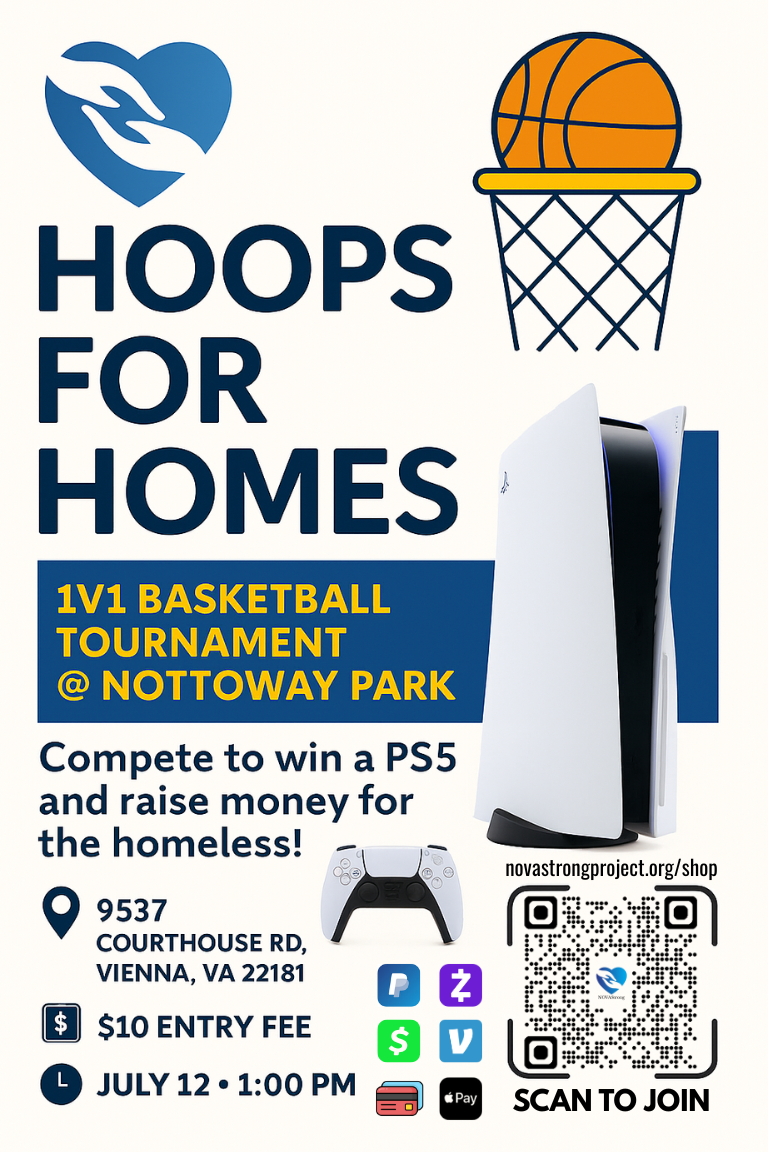
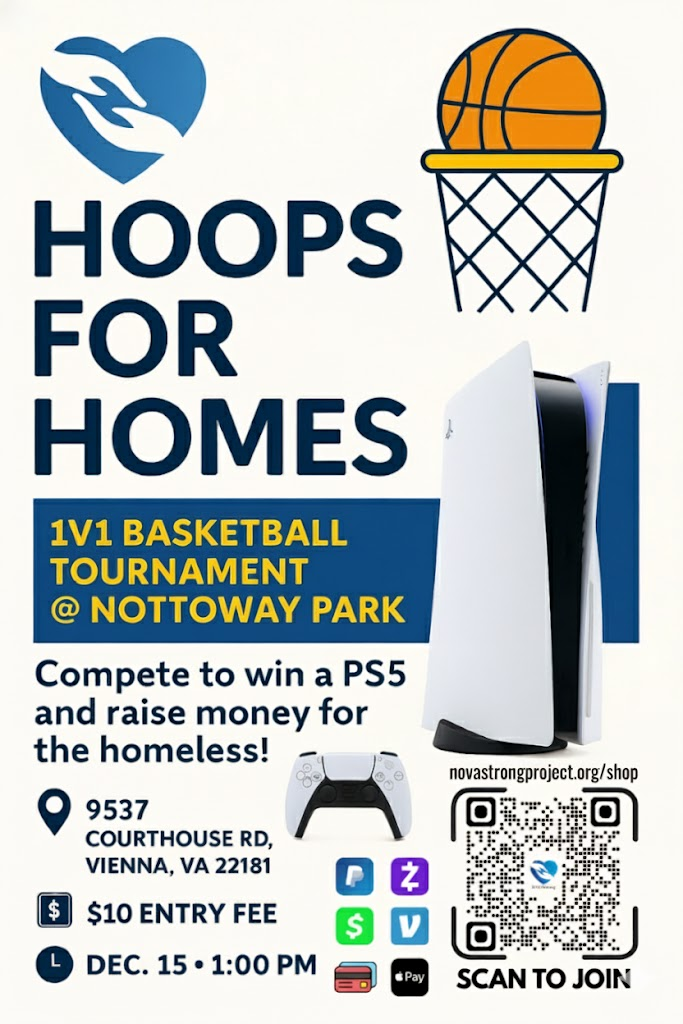
yupdafa

diff --git a/about-us.html b/about-us.html
@@ -112,7 +112,7 @@
 
     <img src="assets/img/articles/srikanth.png" class="img-fluid mb-4" alt="..." style="width: 300px; border-radius: 8px;">
     <h5>Srikanth Bala</h5>
-    <div class="text-muted mb-2">Executive Director</div>
+    <div class="text-muted mb-2">Co-President</div>
     <p>Srikanth is a senior at Madison High School. He is the founder of NOVAStrong and a student leader with a passion for using STEM to create real-world impact. He helps lead community projects focused on equity, service, and innovation. Srikanth was inspired to start NOVAStrong after seeing how access to education and technology can vary between neighborhoods, and the effect it has on the community. Outside of school, he enjoys building electronics, working on design projects, and playing basketball with friends.</p>
 <p class="text-muted small mt-2">
   Phone: <a href="tel:5713730007" style="color: #007BA7; text-decoration: none;">(571) 373-0007</a><br>
@@ -126,7 +126,7 @@
 
     <img src="assets/img/articles/adam.png" class="img-fluid mb-4" alt="Adam Najmeddine" style="width: 300px; border-radius: 8px;">
     <h5>Adam Najmeddine</h5>
-    <div class="text-muted mb-2">Executive Director</div>
+    <div class="text-muted mb-2">Co-President</div>
     <p>Adam is a senior at Madison High School. He is a co-founder of NOVAStrong and is passionate about biomedical science and community service. He helps lead the team’s educational and outreach programs, with a focus on youth empowerment and public health. Adam was inspired to start NOVAStrong after volunteering at a local clinic, where he saw how access to healthcare and education could change lives. Outside of school, Adam enjoys playing soccer, working on science research, and spending time with friends.</p>
 <p class="text-muted small mt-2">
   Phone: <a href="tel:5712242390" style="color: #007BA7; text-decoration: none;">(571) 224-2390</a><br>
@@ -138,7 +138,7 @@
   <div class="col-md-4 mb-4 text-center">
     <img src="assets/img/articles/zakaria.png" class="img-fluid mb-4" alt="Zakaria Najmeddine" style="width: 300px; border-radius: 8px;">
     <h5>Zakaria Najmeddine</h5>
-    <div class="text-muted mb-2">Executive Director</div>
+    <div class="text-muted mb-2">Co-President</div>
     <p>Zakaria is a senior at Madison High School. He is a co-founder of NOVAStrong and is passionate about using data science and biomedical research to drive real-world impact. He helps lead STEM-based outreach and public health projects aimed at making education and innovation more accessible. Zakaria was inspired to start NOVAStrong after a college research internship, where he worked on analyzing health data to improve local clinic operations. Outside of school, Zakaria enjoys coding, biking with friends, and playing pickleball.</p>
 <p class="text-muted small mt-2">
   Phone: <a href="tel:5712242445" style="color: #007BA7; text-decoration: none;">(571) 224-2445</a><br>
@@ -150,24 +150,24 @@
 <div class="row justify-content-center text-center mb-4 gx-5">
   <!-- David (new, placed first) -->
   <div class="col-md-4 mb-4 custom-divider-end">
-    <img src="assets/img/articles/david.jpeg" class="img-fluid mb-4" alt="David Nam" style="width: 300px; height: 300px; object-fit: cover; border-radius: 8px;">
+    <img src="assets/img/articles/david.jpg" class="img-fluid mb-4" alt="David Nam" style="width: 300px; height: 300px; object-fit: cover; border-radius: 8px;">
     <h5>David Nam</h5>
-    <div class="text-muted mb-2">Vice Executive Director</div>
-    <p>As Vice Executive Director, David supports NOVAStrong’s operations and partnerships, helping align programs and outreach with the organization’s mission.</p>
+    <div class="text-muted mb-2">Vice President</div>
+    <p>David is a senior at Madison High School. He is NOVAStrong's Vice President and helps coordinate programs and partnerships. He helps organize supply drives and volunteer shifts, manages project timelines, and supports outreach with schools and local nonprofits. David also helps run device drop-off events and community workshops, making sure families leave with working laptops and simple how-to guides. Outside of school, he enjoys playing soccer and watching weekend matches with friends.</p>
     <p class="text-muted small mt-2">
-      Phone: <a href="tel:5713730007" style="color: #007BA7; text-decoration: none;">(571) 373-0007</a><br>
+      Phone: <a href="tel:5715197473" style="color: #007BA7; text-decoration: none;">(571) 519-7473</a><br>
       Email: <a href="mailto:info@novastrongproject.org" style="color: #007BA7; text-decoration: none;">info@novastrongproject.org</a>
     </p>
   </div>
 
   <!-- Rayan -->
   <div class="col-md-4 mb-4 custom-divider-end">
-    <img src="assets/img/articles/rayan.png" class="img-fluid mb-4" alt="Rayan Rashid" style="width: 300px; border-radius: 8px;">
+    <img src="assets/img/articles/ryo.jpg" class="img-fluid mb-4" alt="Rayan Rashid" style="width: 300px; border-radius: 8px;">
     <h5>Rayan Rashid</h5>
-    <div class="text-muted mb-2">Director of Technology</div>
-    <p>As Director of Technology, Rayan helps build and maintain the tools that power NOVAStrong’s programs. He focuses on improving the website, data systems, and internal workflows so volunteers and families can connect more easily and securely.</p>
+    <div class="text-muted mb-2">Technology Lead</div>
+    <p>Rayan is a senior at James Madison High School. He is NOVAStrong's Technology Lead and helps with our electronic refurbishment drives and the development and hosting of our website and shop. He helps restore donated devices, sets them up for use, and handles troubleshooting for the team. Rayan has a strong interest in computer science and has coded many iOS apps over the years. Outside of school, he enjoys playing soccer and working on small tech projects.</p>
     <p class="text-muted small mt-2">
-      Phone: <a href="tel:5713730007" style="color: #007BA7; text-decoration: none;">(571) 373-0007</a><br>
+      Phone: <a href="tel:7037178496" style="color: #007BA7; text-decoration: none;">(703) 717-8496</a><br>
       Email: <a href="mailto:info@novastrongproject.org" style="color: #007BA7; text-decoration: none;">info@novastrongproject.org</a>
     </p>
   </div>
@@ -176,10 +176,10 @@
   <div class="col-md-4 mb-4 text-center">
     <img src="assets/img/articles/shaan2.jpeg" class="img-fluid mb-4" alt="Shaan Grover" style="width: 300px; border-radius: 8px;">
     <h5>Shaan Grover</h5>
-    <div class="text-muted mb-2">Director of Marketing</div>
-    <p>As Director of Marketing, Shaan leads outreach and storytelling to grow NOVAStrong’s impact. He supports branding, social media, and community engagement efforts that help raise awareness and support for programs across Northern Virginia.</p>
+    <div class="text-muted mb-2">Health Insights Lead</div>
+    <p>Shaan is a senior at Madison High School. He is NOVAStrong's Health Insights Lead and is interested in medicine and public health. He helps with the team's data driven health projects and outreach, including overdose education and NARCAN access. Shaan was inspired to serve his community after seeing how clear information outreach can protect a community and save many lives. Outside of school, Shaan enjoys playing baseball, reading non-fiction, and hanging out with friends.</p>
     <p class="text-muted small mt-2">
-      Phone: <a href="tel:5713730007" style="color: #007BA7; text-decoration: none;">(571) 373-0007</a><br>
+      Phone: <a href="tel:5712514856" style="color: #007BA7; text-decoration: none;">(571) 251-4856</a><br>
       Email: <a href="mailto:info@novastrongproject.org" style="color: #007BA7; text-decoration: none;">info@novastrongproject.org</a>
     </p>
   </div>
@@ -191,10 +191,10 @@
   <div class="col-md-4 mb-4 text-center">
     <img src="assets/img/articles/charlie.JPEG" class="img-fluid mb-4" alt="Charlie Bergeron" style="width: 300px; height: 300px; object-fit: cover; object-position: 50% 35%; border-radius: 8px;">
     <h5>Charlie Bergeron</h5>
-    <div class="text-muted mb-2">Director of Growth</div>
-    <p>As Director of Growth, Charlie helps expand NOVAStrong’s partnerships and outreach so we can serve more families and neighborhoods across NOVA.</p>
+    <div class="text-muted mb-2">Marketing Lead</div>
+    <p>Charlie is a senior at Madison High School. He is NOVAStrong's Marketing Lead and plans to study premed. He helps grow the team's partnerships and outreach, managing social media, school events, and local business collaborations. Charlie was inspired to help out after volunteering at a student health fair for underprivileged families. Outside of school, Charlie enjoys playing tennis, basketball, and streaming.</p>
     <p class="text-muted small mt-2">
-      Phone: <a href="tel:5713730007" style="color: #007BA7; text-decoration: none;">(571) 373-0007</a><br>
+      Phone: <a href="tel:7032289066" style="color: #007BA7; text-decoration: none;">(703) 228-9066</a><br>
       Email: <a href="mailto:info@novastrongproject.org" style="color: #007BA7; text-decoration: none;">info@novastrongproject.org</a>
     </p>
   </div>

diff --git a/index.html b/index.html
@@ -44,13 +44,83 @@
     }
 
     .navbar-custom.scrolled .nav-link,
-    .navbar-custom.scrolled .navbar-brand,
+    .navbar-custom.scrolled .navbar-brand {
+      color: black !important;
+    }
+
     .navbar-custom.scrolled .btn {
       color: black !important;
     }
 
+    .navbar-custom.scrolled .btn[href="donate.html"] {
+      color: white !important;
+    }
+
     .navbar-custom .btn {
       transition: color 0.3s, border-color 0.3s;
+    }
+
+    /* Increase Who We Are text size */
+    .who-we-are-left p {
+      font-size: clamp(1.08rem, 1.4vw, 1.35rem);
+    }
+    
+    /* Match heights of Who We Are and Newsletter/Disaster Relief columns on desktop */
+    @media (min-width: 992px) {
+      .who-we-are-section .row {
+        display: flex;
+        align-items: stretch;
+      }
+      
+      .who-we-are-section .col-lg-6 {
+        display: flex;
+        flex-direction: column;
+        height: 100%;
+      }
+      
+      .who-we-are-left {
+        display: flex;
+        flex-direction: column;
+        height: 100%;
+      }
+      
+      .who-we-are-left > h2 {
+        flex-shrink: 0;
+      }
+      
+      .who-we-are-left p {
+        flex: 0 1 auto;
+        font-size: clamp(1.08rem, 1.4vw, 1.35rem);
+        margin-bottom: 1rem;
+      }
+      
+      .who-we-are-left img {
+        margin-top: auto;
+        width: 100%;
+        flex-shrink: 0;
+      }
+      
+      .who-we-are-right {
+        display: flex;
+        flex-direction: column;
+        height: 100%;
+      }
+      
+      /* Prevent newsletter box from expanding too much */
+      .who-we-are-right #newsletterBox {
+        flex: 0 1 auto;
+      }
+      
+      /* Orange box (disaster relief) - separate from newsletter */
+      .who-we-are-right #orangeBox {
+        flex-shrink: 0;
+      }
+      
+      /* Ensure orange box and image bottom align by matching heights */
+      .who-we-are-left,
+      .who-we-are-right {
+        min-height: 100%;
+      }
     }
   </style>
 </head>
@@ -91,18 +161,18 @@
 
   <!-- Hero Text -->
   <div class="position-relative d-flex flex-column justify-content-center align-items-center h-100 text-center text-white px-4 animate__animated animate__fadeInUp animate__slow hero-text" style="z-index: 2;">
-    <h1 class="display-3 fw-bold mb-3 bebas-header">Living in Northern Virginia can be taxing on your wallet...</h1>
-    <p class="lead">We’re here to make sure that won’t be a problem.</p>
+    <h1 class="display-3 fw-bold mb-3 bebas-header">Northern Virginia faces real needs, every day.</h1>
+    <p class="lead">We're here to make sure that won't be a problem.</p>
   </div>
 </header>
 
 <!-- Newsletter & Who We Are -->
 <!-- Newsletter & Who We Are -->
-<section class="py-5 bg-white">
+<section class="py-5 bg-white who-we-are-section">
   <div class="container">
     <div class="row g-5 align-items-stretch">
       <!-- Who We Are Left Column -->
-      <div class="col-lg-6 d-flex flex-column justify-content-center align-items-center text-center h-100">
+      <div class="col-lg-6 who-we-are-left d-flex flex-column justify-content-center align-items-center text-center h-100">
         <h2 class="mb-0">Who We Are</h2>
         <p class="lead mt-3">
           NOVAStrong is a student-led non-profit based in Vienna, VA. Our mission is simple:
@@ -114,12 +184,12 @@
 
       <!-- Newsletter Right Column -->
       <!-- Newsletter Right Column -->
-<div class="col-lg-6">
+<div class="col-lg-6 who-we-are-right">
   <div class="p-4 rounded shadow bg-light w-100 animate__animated d-flex flex-column justify-content-center" id="newsletterBox" style="opacity: 0;">
     <h2 class="text-center mb-3">Join Our 
       <a href="blog.html" style="color: #007BA7; text-decoration: none;">Newsletter</a>
     </h2>
-    <p class="text-center mb-4">Stay up to date on community projects, volunteer events, and student-led initiatives.</p>
+    <p class="text-center mb-4 small" style="font-size: 0.85rem;">Stay up to date on community projects, volunteer events, and student-led initiatives.</p>
     <form id="newsletterForm" class="row g-3 flex-grow-1 d-flex flex-column justify-content-center">
       <div class="col-12">
         <input type="text" class="form-control" placeholder="Full Name" name="name" required />
@@ -141,18 +211,18 @@
       <div class="d-flex flex-column flex-md-row align-items-center justify-content-between h-100 text-center text-md-start px-4 px-md-5 py-4 py-md-5">
         <!-- Disaster Relief Spotlight -->
         <div class="d-flex flex-column justify-content-center align-items-center align-items-md-start text-white text-center text-md-start" style="flex: 1; max-width: 520px; margin: 0 auto;">
-          <h4 class="fw-bold mb-3" style="color: white; font-size: 1.8rem;">
-            🌍 Disaster Relief Spotlight
+          <h4 class="fw-bold mb-3" style="color: white; font-size: 1.4rem;">
+            Disaster Relief Spotlight 🌍
           </h4>
           <p class="mb-3 text-white" style="max-width: 420px;">
-            Learn how NOVAStrong rallied for families after the Morocco earthquake, raising <strong>$3,000+</strong> overall with more than <strong>$1,500</strong> from a single GoFundMe. Your support helped deliver long-term care as part of our <strong>$20,000+</strong> in community relief.
+            After the Morocco earthquake, NOVAStrong raised over $3,000, contributing to more than $20,000 in worldwide relief.
           </p>
           <a href="disaster-relief.html" class="btn fw-bold px-4 mt-2 mx-auto mx-md-0" style="background-color: #007BA7; color: white;">Explore the Relief Hub</a>
         </div>
 
         <!-- Key Impact Stats -->
-        <div class="d-flex flex-column justify-content-center text-white text-start mt-4 mt-md-0 ms-md-4" style="flex-shrink: 0; max-width: 260px;">
-          <div class="bg-white text-dark rounded-4 p-3 shadow-sm">
+        <div class="d-flex flex-column justify-content-center text-white text-center mt-4 mt-md-0 ms-md-4" style="flex-shrink: 0; max-width: 260px;">
+          <div class="bg-white text-dark rounded-4 p-3 shadow-sm text-center">
             <p class="fw-bold mb-2 text-uppercase small text-secondary">Impact at a Glance</p>
             <ul class="list-unstyled mb-0">
               <li class="mb-2"><strong>$3,000+</strong> raised for Morocco families</li>
@@ -338,6 +408,51 @@
   });
 
   observer.observe(newsletter);
+</script>
+
+<script>
+  // Match heights of Who We Are and Newsletter/Disaster Relief columns on desktop
+  function matchColumnHeights() {
+    if (window.innerWidth >= 992) {
+      const leftColumn = document.querySelector('.who-we-are-left');
+      const rightColumn = document.querySelector('.who-we-are-right');
+      
+      if (leftColumn && rightColumn) {
+        // Reset heights first
+        leftColumn.style.height = 'auto';
+        rightColumn.style.height = 'auto';
+        
+        // Get the actual heights
+        const leftHeight = leftColumn.offsetHeight;
+        const rightHeight = rightColumn.offsetHeight;
+        
+        // Set both to the maximum height
+        const maxHeight = Math.max(leftHeight, rightHeight);
+        leftColumn.style.height = maxHeight + 'px';
+        rightColumn.style.height = maxHeight + 'px';
+      }
+    } else {
+      // Reset heights on mobile
+      const leftColumn = document.querySelector('.who-we-are-left');
+      const rightColumn = document.querySelector('.who-we-are-right');
+      if (leftColumn) leftColumn.style.height = 'auto';
+      if (rightColumn) rightColumn.style.height = 'auto';
+    }
+  }
+  
+  // Run on load and resize
+  window.addEventListener('load', matchColumnHeights);
+  window.addEventListener('resize', matchColumnHeights);
+  
+  // Also run after images load to account for image dimensions
+  window.addEventListener('load', () => {
+    const img = document.querySelector('.who-we-are-left img');
+    if (img) {
+      img.addEventListener('load', matchColumnHeights);
+      // If already loaded, trigger immediately
+      if (img.complete) matchColumnHeights();
+    }
+  });
 </script>
 <script src="https://cdn.jsdelivr.net/npm/bootstrap@5.3.3/dist/js/bootstrap.bundle.min.js" integrity="sha384-..." crossorigin="anonymous"></script>
 </body>

diff --git a/projects.html b/projects.html
@@ -101,18 +101,18 @@
         <!-- NARCAN Accessibility Campaign -->
         <div class="row align-items-center mb-5">
             <div class="col-lg-6 text-center mb-4 mb-lg-0">
-                <img src="assets/img/articles/narcan.png" class="img-fluid rounded shadow-sm" style="max-height: 500px;" alt="NARCAN Campaign Image">
+                <img src="assets/img/articles/babur.jpg" class="img-fluid rounded shadow-sm" style="max-height: 500px;" alt="NARCAN Campaign Image">
             </div>
             <div class="col-lg-6">
                 <div class="card p-4 border-0 shadow-sm">
                     <h4 class="section-header"><span class="underline">NARCAN Accessibility Campaign</span></h4>
 
                     <p style="font-size: 17px;">
-                        With opioid overdoses continuing to endanger lives in our community, NOVAStrong is launching a bold and urgent initiative: the <strong>NARCAN Accessibility Campaign</strong>. This project builds on the existing REVIVE! program, which has already trained students throughout Prince William County Public Schools in administering naloxone (NARCAN), a life-saving medication used to reverse opioid overdoses.
+                        With opioid overdoses continuing to endanger lives in our community, NOVAStrong launched the NARCAN Accessibility Campaign after a pivotal kickoff with Dr. Babur Lateef at Viva! Vienna! That moment moved our work from idea to action. It set a clear goal, expand access to naloxone and make overdose response a normal part of community safety.
                         <br><br>
-                        We are proud to work alongside influential public figures like <strong>Dr. Babur Lateef</strong>, Chairman At-Large of PWCS, to expand both awareness and access to NARCAN in local schools, libraries, and community centers. Our campaign has already placed naloxone boxes in high-traffic public locations like libraries and recreation centers and continues installing additional units across schools so students, staff, and community leaders are fully trained and confident in responding to emergencies.
+                        We partnered with the Optimist Club of Greater Vienna and secured dedicated funding in their October budget to scale placements and training. <strong>Using that support, we placed NARCAN boxes across Vienna's public and commercial spaces, including libraries, recreation sites, shops, and other high-traffic locations.</strong> We continue adding units in schools and workplaces so students, staff, and local businesses are ready to act.
                         <br><br>
-                        In addition to distributing physical kits, NOVAStrong will host educational workshops, training refreshers, and social media campaigns targeting stigma reduction and opioid awareness. We believe everyone deserves the knowledge and tools to save a life because preparedness shouldn’t be optional.
+                        <strong>Alongside distribution, NOVAStrong runs workshops, quick training refreshers, and social campaigns to reduce stigma and raise awareness.</strong> We focus on simple steps, where to find NARCAN and how to use it in under two minutes. Everyone deserves the knowledge and tools to save a life, and preparedness should be standard for our town.
                     </p>
                 </div>
             </div>
@@ -132,9 +132,9 @@
                     <p style="font-size: 17px;">
                         NOVAStrong is launching a long-term tech equity initiative: the <strong>Electronic Refurbishment Drive</strong>. Our goal is to collect used but functional laptops, tablets, phones, and accessories from local families and businesses, refurbish them with care, and redistribute them to underserved students across Northern Virginia.
                         <br><br>
-                        With rising educational demands and an increasingly digital world, access to reliable devices is no longer a luxury; it’s a necessity. Working with experienced volunteers, tech-savvy students, and community partners, we will ensure every device is cleaned, updated, and securely wiped before being donated to a verified recipient.
+                        With rising educational demands and an increasingly digital world, access to reliable devices is no longer a luxury; it's a necessity. Working with experienced volunteers, tech-savvy students, and community partners, we ensure every device is cleaned, updated, and securely wiped before being donated to a verified recipient. This project embodies our values of sustainability, digital inclusion, and community empowerment.
                         <br><br>
-                        We’ll also offer beginner tech literacy sessions for first-time users, particularly senior citizens and young students. This project embodies our values of sustainability, digital inclusion, and community empowerment. By giving old devices new life, we’re building a future that’s more connected and more just.
+                        <strong>Our next drive will be held December 12th from 9 AM to 5 PM at the Vienna Community Center.</strong> <strong>The devices will be held for refurbishment and be shipped out mid-January to struggling communities in Falls Church.</strong>
                     </p>
                 </div>
             </div>

diff --git a/awards.html b/awards.html
@@ -51,8 +51,8 @@
         </div>
         <div class="col-lg-6">
           <div class="card p-4 border-0 shadow-sm">
-            <h4 class="mb-3"><span class="underline">Pollination Project Grant</span></h4>
-            <p style="font-size:17px;">This grant supports youth-led initiatives that create practical change in local communities. Funding from the Pollination Project helps NOVAStrong accelerate early-stage ideas into real, on-the-ground impact across Northern Virginia.</p>
+            <h4 class="mb-3"><span class="underline">Pollination Project Grant Awardee</span></h4>
+            <p style="font-size:17px;">This grant supports youth-led initiatives that create practical change in local communities. Funding from the Pollination Project helps NOVAStrong accelerate early-stage ideas into real, on-the-ground impact across Northern Virginia. <strong>Their funding specifically enabled us to purchase NARCAN for facilities without easy access to this life-saving drug</strong>, ensuring critical spaces in our community are equipped to respond to opioid overdoses.</p>
           </div>
         </div>
       </div>
@@ -66,8 +66,8 @@
         </div>
         <div class="col-lg-6">
           <div class="card p-4 border-0 shadow-sm">
-            <h4 class="mb-3"><span class="underline">Home Depot Foundation Grant</span></h4>
-            <p style="font-size:17px;">Support from the Home Depot Foundation fuels hands-on service projects that improve spaces, building resources, and supplying materials for neighborhood-focused efforts that strengthen families and seniors in NOVA.</p>
+            <h4 class="mb-3"><span class="underline">Home Depot Foundation Grant Awardee</span></h4>
+            <p style="font-size:17px;">Support from the Home Depot Foundation fuels hands-on service projects that improve spaces, building resources, and supplying materials for neighborhood-focused efforts that strengthen families and seniors in NOVA. <strong>They especially provided crucial support for a lot of our Moroccan Earthquake Disaster Relief efforts</strong>, helping us deliver essential supplies and aid to those affected by the disaster.</p>
           </div>
         </div>
       </div>

diff --git a/shop.html b/shop.html
@@ -274,7 +274,7 @@
     <!-- Text Block -->
     <div style="color: white; font-size: 0.95rem; max-width: 680px;" class="sale-text-block">
 
-      <h2 class="fw-bold mb-3" style="font-size: 2.5rem;">🏀 Hoops for Homes - March 15</h2>
+      <h2 class="fw-bold mb-3" style="font-size: 2.5rem;">🏀 Hoops for Homes - Dec. 15</h2>
       <p class style ="font-size: 1.05rem;">We’re thrilled to announce "Hoops for Homes," our upcoming charity basketball tournament at <strong>Nottoway Park</strong> in Vienna. Participants will pay a small fee to compete in a 1v1 tournament with a <strong>PS5 Prize</strong>, all to support local families struggling with rent in NOVA. Currently, we need help funding for this event through <strong><a href="donate.html" style="color: #88e7ff; text-decoration: none;">donations</a></strong>.
 
 </p>
@@ -334,7 +334,7 @@
   <!-- Header and Text (full width) -->
   <div style="text-align: left;">
     <div style="text-align: center;">
-  <h2 class="fw-bold mb-2" style="font-size: 1.3rem; color: white;">🏀 Hoops for Homes<br>March 15</h2>
+  <h2 class="fw-bold mb-2" style="font-size: 1.3rem; color: white;">🏀 Hoops for Homes<br>Dec. 15</h2>
 
   <p style="font-size: 1.2rem; color: white;">
     We’re thrilled to announce "Hoops for Homes," our upcoming charity basketball tournament at <strong>Nottoway Park</strong> in Vienna.
